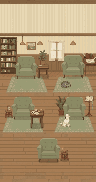
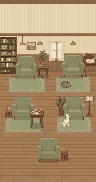
Home: rugs made rectangles (the generated ones widened toward the bottom)
Claude-Session: https://claude.ai/code/session_01CkNb4fKBKqzoVDQabCd3oK

diff --git a/ui/web/tools/art/home_scene.py b/ui/web/tools/art/home_scene.py
@@ -3,8 +3,9 @@
 Background: sources/home_plate_gen.jpg, an ElevenLabs edit (Nano Banana 2) of one flat, front-view
 Stardew-style café with the five armchairs empty (square side tables drawn straight from the front, so no
 surface shows a top in perspective). It is read on the team sprites' grid (96 cells across, 8 source px a
-cell), reduced to 44 colours, with ten rows of plain wall in the top band for the wordmark. Socrates'
-generated cup goes: his sprite brings its own.
+cell), reduced to 44 colours, with ten rows of plain wall in the top band for the wordmark. The rugs,
+drawn a little wider at the bottom, are made rectangles (no perspective), and Socrates' generated cup
+goes: his sprite brings its own.
 
 People: the team's home sprites (data.json home_*, 12 px cells) with their motions fitted to the room:
     seated     the thigh rows are taken out, so each sits in his armchair (hands on its arms, feet on the
@@ -48,6 +49,12 @@ PEOPLE = {
     "schopenhauer": {"x": 66, "y": 91, "cut": (19, 5), "cup": None},
     "epictetus":    {"x": 33, "y": 132, "cut": (19, 5), "cup": (64, 149), "stick": 2},
 }
+RUGS = [                           # (window, cells to leave alone): each rug made a rectangle
+    ((2, 76, 50, 94), ()),
+    ((50, 76, 95, 94), ()),
+    ((0, 115, 48, 133), [(3, 108, 13, 119), (29, 108, 44, 128)]),           # the hourglass stool, Seneca's table
+    ((48, 115, 95, 133), [(80, 108, 92, 119), (58, 111, 71, 128)]),         # the music stand, the poodle
+]
 ERASE_CUP = (38, 41, 62, 64)       # Socrates' generated cup on his side table (cells x0..x1, rows y0..y1)
 AMBIENT = [
     ("sway", (37, 47, 47, 56)),                      # Socrates' plant
@@ -95,6 +102,62 @@ def erase_cup(a):
     x0, x1, y0, y1 = ERASE_CUP
     for y in range(y0, y1 + 1):
         a[y, x0:x1 + 1] = a[y0 - 1, x0:x1 + 1]
+
+
+def floorlike(c):
+    c = c.astype(int)
+    return (c[..., 0] > c[..., 1] + 22) & (c[..., 0] > c[..., 2] + 45)
+
+
+def square_rug(a, win, protect=(), e=3, eb=2):
+    """The generated rugs widen toward the bottom (a trapezoid, a hint of perspective). Each becomes a
+    rectangle as wide as its median row: per row, the side borders (e cells) move to the rectangle's edges,
+    a gap inside is filled from the nearest interior row (same parity, so the pattern keeps its rhythm) or,
+    in the top and bottom border bands, from the band itself, and rug cells outside it become the nearest
+    floor cell of the same row. Cells in `protect` (furniture standing on the rug's edge) are left alone."""
+    x0, y0, x1, y1 = win
+    old = a.copy()
+    ext = {}
+    for y in range(y0, y1 + 1):
+        xs = np.nonzero(~floorlike(old[y, x0:x1 + 1]))[0]
+        if len(xs) >= 8:
+            ext[y] = (x0 + int(xs.min()), x0 + int(xs.max()))
+    ys = sorted(ext)
+    top, bot = ys[0], ys[-1]
+    L, R = int(np.median([ext[y][0] for y in ys])), int(np.median([ext[y][1] for y in ys]))
+    prot = np.zeros(a.shape[:2], bool)
+    for px0, py0, px1, py1 in protect:
+        prot[py0:py1 + 1, px0:px1 + 1] = True
+
+    def interior(x, y):
+        cand = [yy for yy in ys if top + eb <= yy <= bot - eb and ext[yy][0] + e <= x <= ext[yy][1] - e]
+        if not cand:
+            return None
+        yy = min(cand, key=lambda yy: abs(yy - y) + (0 if (yy - y) % 2 == 0 else 100))
+        return old[yy, x]
+
+    for y in ys:
+        l, r = ext[y]
+        band = y < top + eb or y > bot - eb
+        for x in range(min(l, L), max(r, R) + 1):
+            if prot[y, x]:
+                continue
+            if L <= x <= R:
+                if x < L + e:
+                    a[y, x] = old[y, l + (x - L)]
+                elif x > R - e:
+                    a[y, x] = old[y, r - (R - x)]
+                elif not (l + e <= x <= r - e):
+                    if band:
+                        xx = x + (l - L) if x < l + e else x - (R - r)
+                        a[y, x] = old[y, min(max(xx, l + e), r - e)]
+                    else:
+                        c = interior(x, y)
+                        if c is not None:
+                            a[y, x] = c
+            else:
+                fl = [c for c in range(a.shape[1]) if (c < l or c > r) and floorlike(old[y, c])]
+                a[y, x] = old[y, min(fl, key=lambda c: abs(c - x) + (0 if (c - x) % 2 == 0 else 1))]
 
 
 def cells(path):
@@ -250,6 +313,8 @@ def build():
     (OUT / "people.png").unlink(missing_ok=True)
     base = pano()
     erase_cup(base)
+    for win, protect in RUGS:
+        square_rug(base, win, protect)
     H, W = base.shape[:2]
     people = {}
     for pid, P in PEOPLE.items():

diff --git a/CLAUDE.md b/CLAUDE.md
@@ -17,7 +17,7 @@ The design doc is the source of truth for scope, contracts and decisions. Read t
 - Persona mood (design doc 7.5, `app/mood.py`): the voice model opens each reply with `<mood label intensity/>`; the tag is stripped before the quote check, smoothed across turns, stored on the reply and sent as a `mood` event. From tier 2 up, at an exit and in support mode it is locked at attentive (FR-34). The scene sprite shows it; read-aloud tone follows it (7.6). Each persona config lists its `moods`.
 - Visible thinking (design doc 7.8, FR-18, FR-36, ADR-16, `app/thinking.py`): the voice call asks for summarized adaptive thinking; the voice yields summary pieces as `Thought`, the persona node buffers them into sentences, drops any that name passages, prompts, personas, tiers or quote tags, strips quotation marks and sends each as a `thinking` event. None from tier 2 up or on the way back from support mode. Stored per turn in state and logged in the eval CSV (`thinking` column, NFR-14).
 - Full-screen chat (all five; `kbtest.html` is the layout's test page): `ui/web/assets/personas/<id>/full/` holds the scene (143 × 256), the face sheet and `faces.json`. Current art (Nov 24): Schopenhauer's first generation (`sources/schopenhauer_seated_gen.jpg`) set the style; the other four are their earlier scenes with the person redrawn in that style (`sources/<id>_restyled_gen.jpg`). `face_sheet.py` builds all five scenes and face sheets from per-persona anchors (eye boxes, brow boxes, mouth row), moves the pendant lamp off the middle where the persona's `lamp` says (lamps do not swing), and puts every moving thing on its own layer (`layers.py`: a mask, an inpainted plate behind it, frames that redraw the thing with parts moved, so nothing behind it moves). The philosopher: the cells that differ from `sources/<id>_plate_gen.jpg` (an ElevenLabs edit of the same scene with the armchair empty, read on the same grid and palette), and that plate is what is behind him (without a plate it falls back to GrabCut plus the wallpaper above the wainscot, `rail`); poses `scene_in` (head and shoulders a row up, the row at `breath` stretches) and `scene_nod` (the head and beard, down to `chin`, a row down); the face sheet has alpha (head cells only) and its talk frames drop the jaw one row (chin and beard below the mouth row move down; the gap holds a small open mouth). The scene: the persona's `ambient` list (`ambient.py`: leaves leaning, a pet breathing, the poodle perking up and wagging when he replies, a flame flickering; `ambient.png`) plus loose pixels drawn by the page (dust under the lamp, steam off Socrates' cup). Needs `cv2`: run it with a Python that has opencv-python. Pets react only while the mood is unlocked (not from tier 2 up). The earlier bust-style art is rebuilt by `socrates_scene.py` and `seated_scene.py`. The page draws the face patch (blinks, talking, moods behind a blink), floats the bubbles over the scene with the pixel dissolve, lifts the scene above the keyboard, and shows the thought bubble over the head. All five share the armchair, striped wall, wainscot and rug; each nook has its own props.
-- Home: one flat (no perspective), front-view Stardew-style café covers the screen with an empty armchair in each philosopher's nook (`ui/web/assets/home/cafe.png`, 96 × 182 on the team sprites' grid, from `tools/art/sources/home_plate_gen.jpg`). The team's sprites (`home_*` in `data.json`) sit in those armchairs with their motions fitted to the room: `ui/web/tools/art/home_scene.py` takes out the thigh rows so they sit, moves each resting cup onto that nook's table, desk or stool and redraws the reaching arm to it, adds Seneca's cup to his table, and keeps Schopenhauer's cup in his hands (he has no table: only his hold, raise and sip frames play). It writes one strip per philosopher (`assets/home/<id>.png`), `ambient.png` and `home.json`; needs `cv2`. The page draws it on a canvas: the sprites' timelines, the cat and poodle breathing (the poodle in front of Schopenhauer, perking up and wagging now and then), plants leaning, two lamp flames, dust under the lamps. A tap on a philosopher opens Meet. (`sources/home_people_gen.jpg`, the café with the philosophers redrawn in it, is kept for reference only.) The pixel wordmark (`assets/logo_philocafe.png`, `tools/art/logo.py`, Pixelify Sans) floats over the wall at the top; the tab bar is a wooden plank (`assets/plank.png`) with icons only.
+- Home: one flat (no perspective), front-view Stardew-style café covers the screen with an empty armchair in each philosopher's nook (`ui/web/assets/home/cafe.png`, 96 × 182 on the team sprites' grid, from `tools/art/sources/home_plate_gen.jpg`; the generated rugs widened toward the bottom, so the builder makes them rectangles). The team's sprites (`home_*` in `data.json`) sit in those armchairs with their motions fitted to the room: `ui/web/tools/art/home_scene.py` takes out the thigh rows so they sit, moves each resting cup onto that nook's table, desk or stool and redraws the reaching arm to it, adds Seneca's cup to his table, and keeps Schopenhauer's cup in his hands (he has no table: only his hold, raise and sip frames play). It writes one strip per philosopher (`assets/home/<id>.png`), `ambient.png` and `home.json`; needs `cv2`. The page draws it on a canvas: the sprites' timelines, the cat and poodle breathing (the poodle in front of Schopenhauer, perking up and wagging now and then), plants leaning, two lamp flames, dust under the lamps. A tap on a philosopher opens Meet. (`sources/home_people_gen.jpg`, the café with the philosophers redrawn in it, is kept for reference only.) The pixel wordmark (`assets/logo_philocafe.png`, `tools/art/logo.py`, Pixelify Sans) floats over the wall at the top; the tab bar is a wooden plank (`assets/plank.png`) with icons only.
 - Settings tab and language: the fourth bottom tab holds Sign out, Delete my café card (FR-45) and English / 中文. The café's own words go through `t()` with the `ZH` dictionary and `PH_ZH` (philosophers' names, introductions, greetings, starters, demo lines) in `template.html`; a new user-facing string needs a `ZH` entry. Changing the language reloads the page. Chinese glyphs use Zpix (`ui/web/assets/fonts/`, free for education use, may not be subset or converted; see its README).
 - Suggested next messages (design doc 7.9, FR-46, `app/suggest.py`): the voice model ends each reply with a `<next>` block of two or three things the user might say; it is held back from the stream, sent as a `suggestions` event and stored on the reply. Tapping one sends it as an ordinary message. None from tier 2 up, at an exit or in support mode.
 - `retrieve()` matches design doc 7.1 v0.2 (`scripts/retrieval.py`, merged in PR #1). Call `retrieval.open_db()` once at startup; `retrieval.corpus_version(persona)` goes in eval headers.
